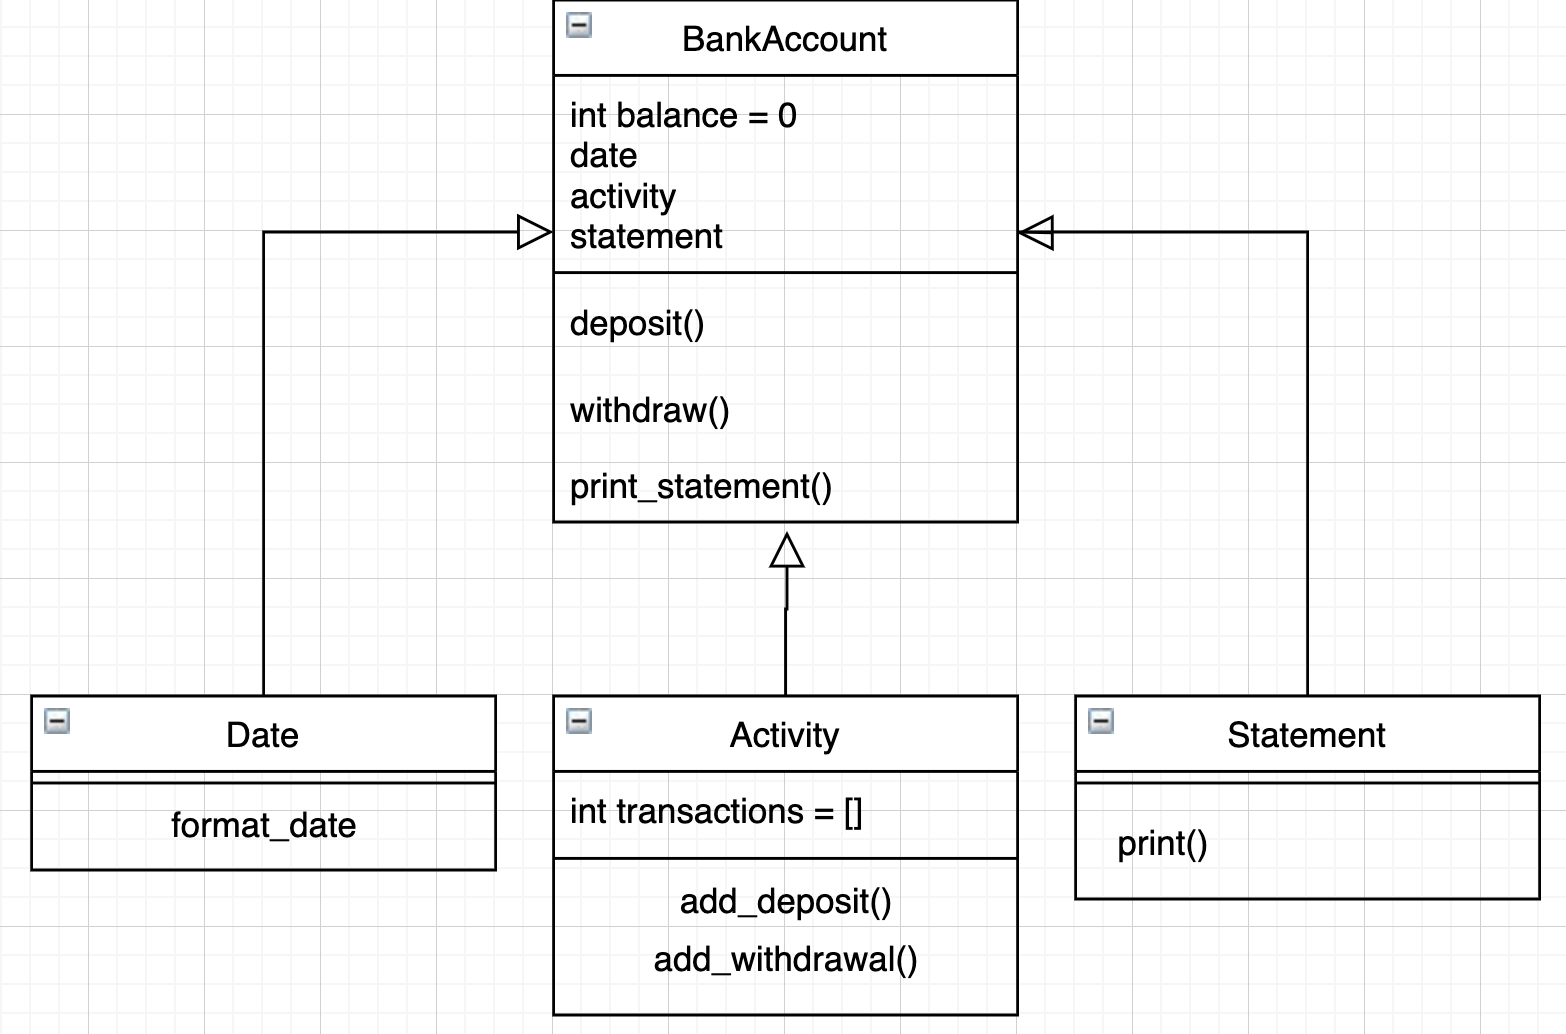
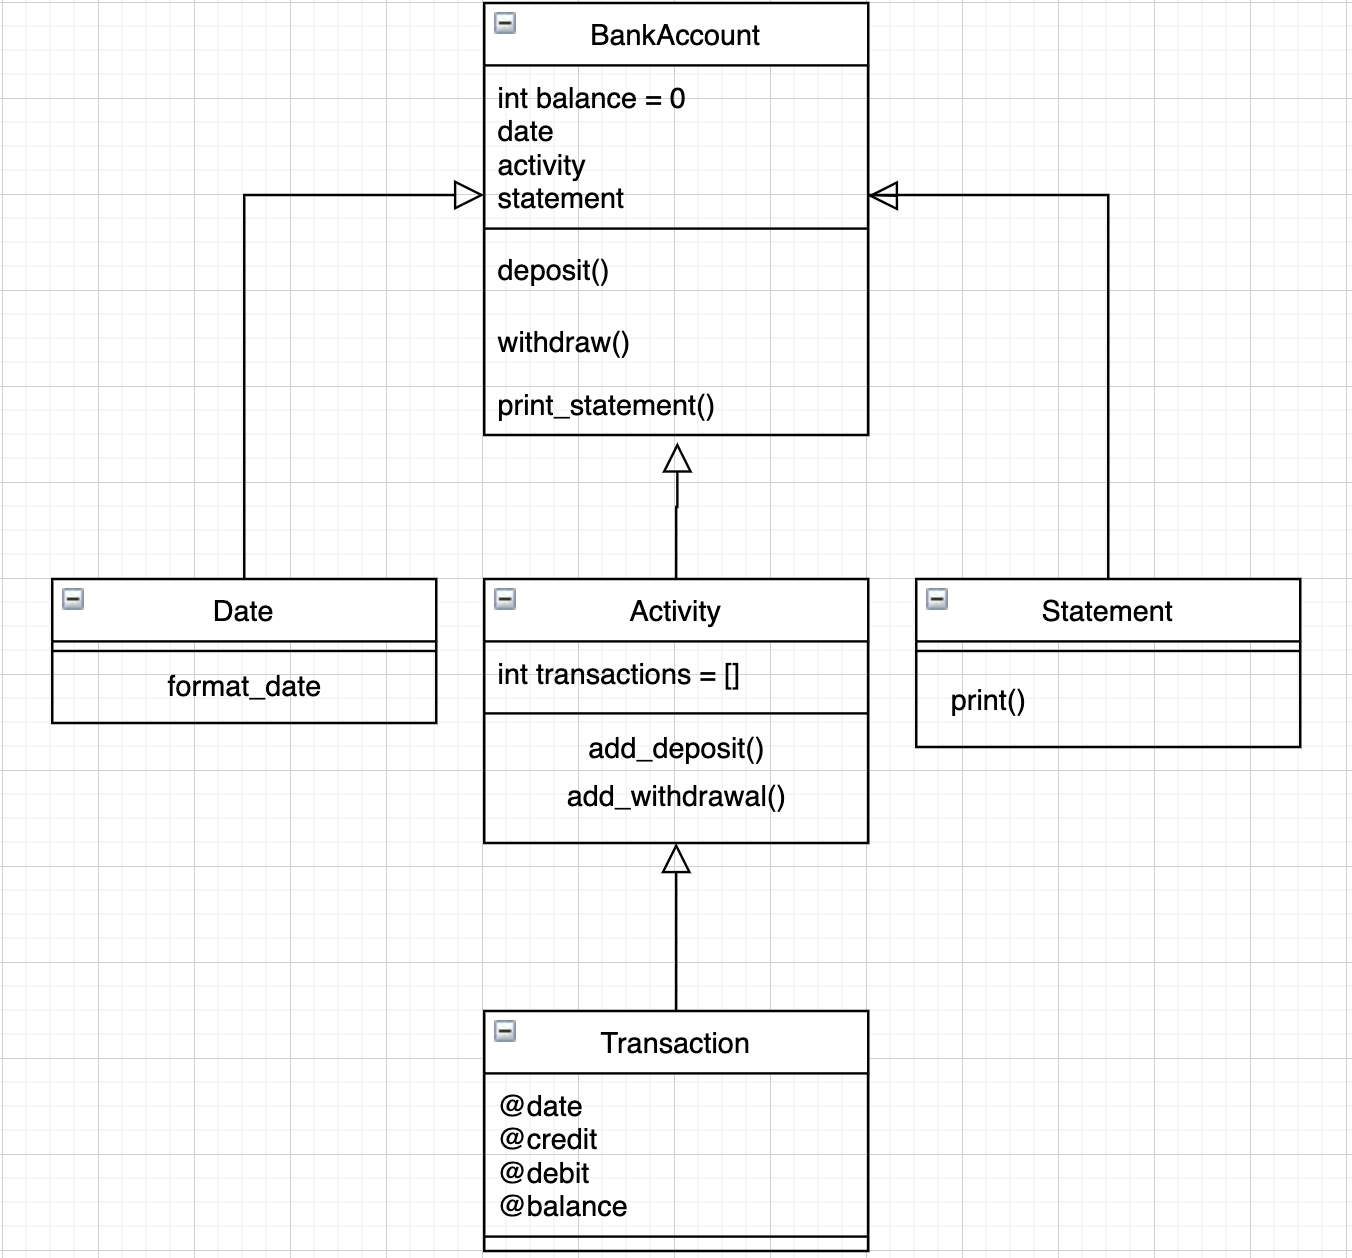
Update class diagram

diff --git a/spec/statement_spec.rb b/spec/statement_spec.rb
@@ -3,18 +3,15 @@
 require 'statement'
 
 describe Statement do
-  let(:transactions) do
-    [
-      { date: '13/07/2020', deposit: '50.00', withdraw: '', balance: '100.00' },
-      { date: '14/07/2020', deposit: '', withdraw: '50.00', balance: '50.00' }
-    ]
-  end
 
   it 'should return a header string for the statement' do
     expect(subject.header).to eq 'date || credit || debit || balance'
   end
 
   it 'should print each element from transactions array' do
+    transactions = 
+    [@date="13/07/2020", @credit="50.00", @debit="", @balance="100.00"],
+    [@date="14/07/2020", @credit="", @debit="50.00", @balance="50.00"]
     expect do
       subject.print(transactions)
     end.to output("date || credit || debit || balance\n14/07/2020 ||  || 50.00 || 50.00\n13/07/2020 || 50.00 ||  || 100.00\n").to_stdout

diff --git a/spec/features/works_for_transactions_on_multiple_days_spec.rb b/spec/features/works_for_transactions_on_multiple_days_spec.rb
@@ -1,0 +1,23 @@
+# frozen_string_literal: true
+
+require 'bank_account'
+
+describe 'transactions on multiple days' do
+  
+  it 'should add the correct date for all transactions' do
+    account = BankAccount.new
+    Time.stub(:now) { Time.new(2012, 0o7, 15) }
+    account.deposit(1000)
+    Time.stub(:now) { Time.new(2012, 0o7, 16) }
+    account.deposit(2000)
+    Time.stub(:now) { Time.new(2012, 0o7, 17) }
+    account.withdraw(500)
+    
+    expect do
+      account.print_statement
+    end.to output("date || credit || debit || balance
+      17/07/2020 ||  || 500.00 || 1500.00
+      16/07/2020 || 2000.00 ||  || 2000.00
+      15/07/2020 || 1000.00 ||  || 1000.00").to_stdout
+  end
+end

diff --git a/spec/features/returns_correct_statement_spec.rb b/spec/features/returns_correct_statement_spec.rb
@@ -1,0 +1,20 @@
+# frozen_string_literal: true
+
+require 'bank_account'
+
+describe 'full user feature' do
+
+  it 'should return correct printed statement' do
+    account = BankAccount.new
+    account.deposit(1000)
+    account.deposit(2000)
+    account.withdraw(500)
+  
+    expect do
+      account.print_statement
+    end.to output("date || credit || debit || balance
+      15/07/2020 ||  || 500.00 || 1500.00
+      15/07/2020 || 2000.00 ||  || 2000.00
+      15/07/2020 || 1000.00 ||  || 1000.00").to_stdout
+  end
+end

diff --git a/lib/statement.rb b/lib/statement.rb
@@ -4,6 +4,7 @@
 class Statement
   def initialize(output: $stdout)
     @output = output
+    @activity_class = Activity
   end
 
   def header
@@ -12,10 +13,8 @@ class Statement
 
   def print(transactions)
     @output.puts header
-    transactions.reverse.each do |hash|
-      hash.each do |item|
-        @output.puts (item[:date]).to_s
-      end
+    transactions.reverse.each do |item|
+      @output.puts "#{item.date} || #{item.credit} || #{item.debit} || #{item.balance}"
     end
   end
 end

diff --git a/lib/activity.rb b/lib/activity.rb
@@ -13,7 +13,7 @@ class Activity
 
   def add_transaction(date, credit, debit, balance)
     formatted_balance = balance_two_decimals(balance)
-    new_transaction = @transaction_class.new(date, credit, debit, balance)
+    new_transaction = @transaction_class.new(date, credit, debit, formatted_balance)
     @all_transactions.push(new_transaction)
   end
 

diff --git a/spec/bank_account_spec.rb b/spec/bank_account_spec.rb
@@ -4,13 +4,7 @@ require 'bank_account'
 
 describe BankAccount do
   subject(:account) { BankAccount.new }
-  let(:transactions) do
-    [
-      ['13/07/2020', '50.00', '', '100.00'],
-      ['14/07/2020', '', '50.00', '50.00']
-    ]
-  end
-
+  
   it 'should initialise with a balance of 0' do
     expect(account.balance).to eq 0
   end

diff --git a/lib/bank_account.rb b/lib/bank_account.rb
@@ -28,7 +28,7 @@ class BankAccount
   end
 
   def print_statement
-    @statement.print(@activity.transactions)
+    @statement.print(@activity.all_transactions)
   end
 
   private
